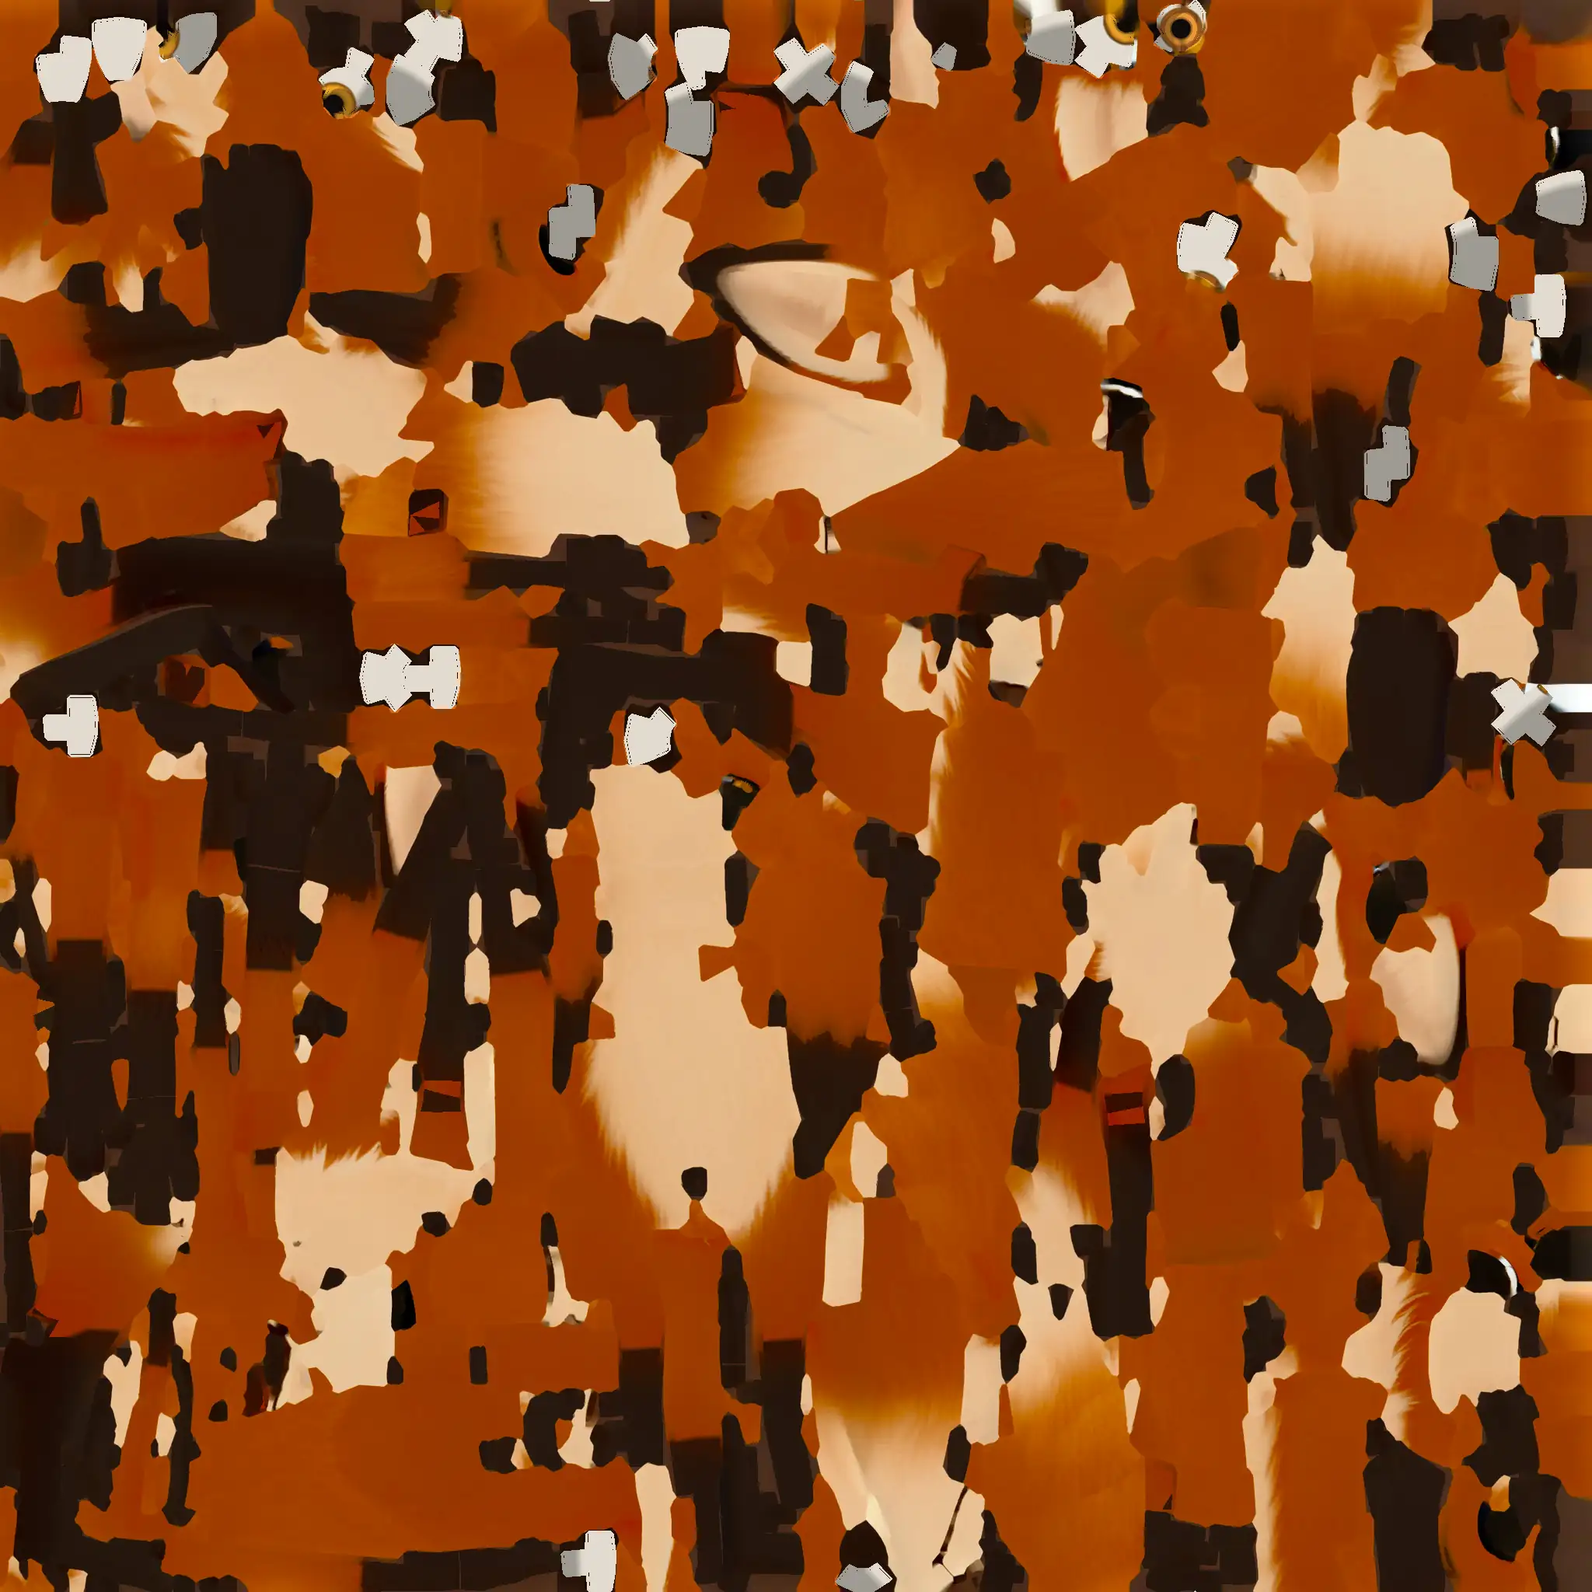
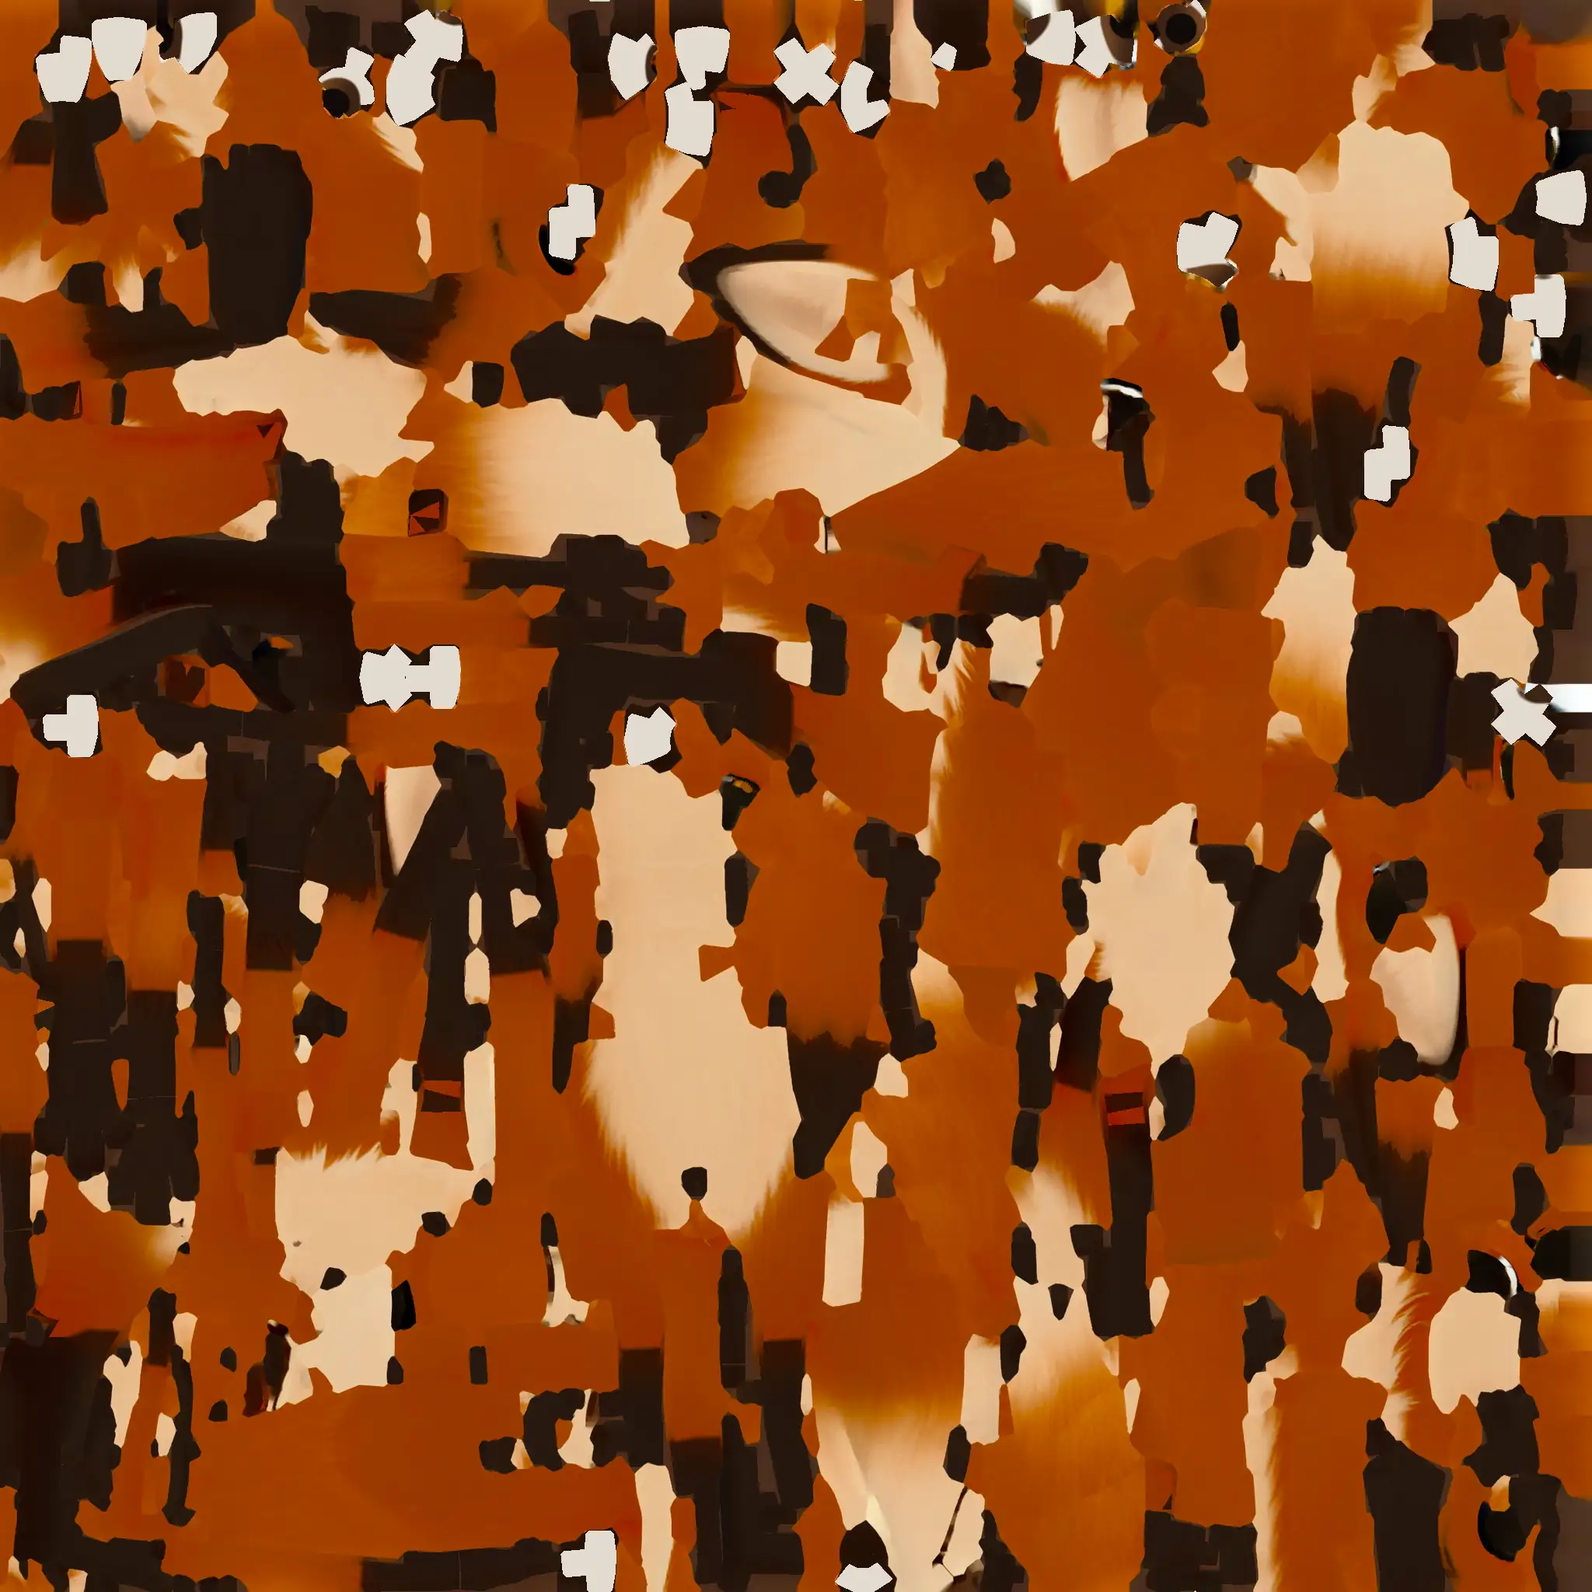
fix(models): cartoon eyes as on the sheet for the new Tripo fox
The half real eyes (a small pupil in an amber iris with white around
it) read uncanny on the toy-like face. paint_eyes() of fox-maps.py now
paints each eyeball as the eye of the sheet: a dark brown oval iris
that fills almost the whole opening (1.25 of half its height up and
down, 4 degrees past the inner corner, and to 7 degrees before the
outer corner), lighter brown toward its lower edge with no texture, a
black pupil of 0.65 of the iris radius, and a thin off-white edge only
at the outer corner. The gaze stays at half the angle of the opening
across, so the eyes are nearly parallel. The ball takes no painted
light, so the eye light of the app gives the one big soft light. The
gaps between ball triangles take the new colors, so no old color shows
on a seam. The red map and the tan map change with it.

diff --git a/tools/fox-maps.py b/tools/fox-maps.py
@@ -86,48 +86,40 @@ SPREAD = 0.06
 MIN_CHROMA = 0.02
 #: The texels of the eyeballs and this many texels around them keep their colors.
 EYE_MARGIN = 4
-#: The ball points of the front view with a luma below this value make the pupil.
-PUPIL_LUMA = 50
-#: The largest red over blue of a pupil texel: the dark brown that the map leaves on the rest of
-#: the ball has more.
-PUPIL_WARM = 15
 #: The share of the middle angle across of the eye opening that the gaze takes: 0 gives
-#: parallel eyes that look straight ahead, 1 an iris in the middle of each opening. The openings
-#: face about 11 degrees out, so the middle value keeps the eyes nearly parallel and the irises
-#: nearly in the middle.
+#: parallel eyes that look straight ahead, 1 an eye in the middle of each opening. The openings
+#: face about 11 degrees out, so the middle value keeps the eyes nearly parallel and in the
+#: middle.
 GAZE_ACROSS = 0.5
 #: The half width in degrees of the band across the opening about the gaze in which the height
 #: of the opening counts.
 GAZE_BAND = 8.0
-#: The angle in degrees of the gaze above the middle of the opening.
-GAZE_UP = 0.0
-#: The iris radius as a share of half the height of the eye opening of the front view.
-IRIS_FILL = 1.12
-#: The pupil radius as a share of the iris radius.
-PUPIL_SHARE = 0.45
-#: The width of the soft edge of the iris to the sclera, as a share of the iris radius.
+#: The vertical radius of the oval iris as a share of half the height of the eye opening: above 1,
+#: the lids cover its top and its bottom.
+IRIS_HEIGHT = 1.25
+#: The angle in degrees before the outer corner of the opening at which the iris ends, so that a
+#: thin off-white edge shows there.
+OUTER_WHITE = 7.0
+#: The angle in degrees by which the iris reaches past the inner corner of the opening, so that no
+#: white shows there.
+INNER_REACH = 4.0
+#: The pupil radius as a share of the vertical iris radius.
+PUPIL_SHARE = 0.65
+#: The width of the soft edge of the iris to the sclera, as a share of the iris radii.
 IRIS_SOFT = 0.06
-#: The rings of the radial profile of the iris, and the largest share by which the luma of a
-#: texel of the iris differs from its ring (`paint_eyes()`).
-IRIS_STEPS = 8
-IRIS_STREAK = 0.18
-#: The sRGB colors of the pupil and of the off-white sclera, and the darkest share of the shade of
-#: the sclera under the upper lid.
-PUPIL_COLOR = (14, 10, 9)
+#: The sRGB colors of the iris (dark, and lighter at its lower edge), of the pupil, and of the
+#: off-white sclera. The iris is near the dark brown of the eyes of the sheets.
+IRIS_DARK = (62, 36, 20)
+IRIS_LIGHT = (112, 68, 36)
+PUPIL_COLOR = (16, 10, 7)
 SCLERA = (226, 220, 208)
-SCLERA_SHADE = 0.3
 #: The largest share of the texels of an eyeball that can also lie in the other eyeball.
 EYE_OVERLAP = 0.01
-#: The angle in degrees from the pupil of the front view within which the pupil texels and the
-#: amber texels of the iris of a ball lie.
-IRIS_SEARCH = 40.0
 #: The rounds of the fill of the texels around the eyeball triangles before the turned ball samples
 #: the map, so that a sample at the edge of a texture island takes no color from outside it.
 EYE_FILL = 4
 #: The barycentric slack of a ray hit, so that a ray on the edge of two triangles hits one.
 EDGE = 1e-4
-#: The barycentric slack of a second try for a ray that hits no ball triangle.
-WIDE_EDGE = 0.05
 #: The step of the grid of the front rays over each eye, in units of the rig file.
 RAY_STEP = 0.0005
 #: The light spot over each eye of a source map that paints one: its middle from the middle of the
@@ -541,28 +533,6 @@ def eye_texels(rig, faces):
     return np.concatenate(ys), np.concatenate(xs), np.concatenate(places)
 
 
-def sample(image, points):
-    """Gives the bilinear colors of an image (float, H x W x 3) at texture points."""
-    x = np.clip(points[:, 0] * SIZE - 0.5, 0, SIZE - 1.001)
-    y = np.clip(points[:, 1] * SIZE - 0.5, 0, SIZE - 1.001)
-    x0, y0 = np.floor(x).astype(int), np.floor(y).astype(int)
-    fx, fy = (x - x0)[:, None], (y - y0)[:, None]
-    return ((1 - fx) * (1 - fy) * image[y0, x0] + fx * (1 - fy) * image[y0, x0 + 1]
-            + (1 - fx) * fy * image[y0 + 1, x0] + fx * fy * image[y0 + 1, x0 + 1])
-
-
-def turn_matrix(a, b):
-    """Gives the matrix of the shortest turn that takes the unit vector a to the unit vector b."""
-    axis = np.cross(a, b)
-    s = np.linalg.norm(axis)
-    if s < 1e-9:
-        return np.eye(3)
-    k = axis / s
-    K = np.array([[0, -k[2], k[1]], [k[2], 0, -k[0]], [-k[1], k[0], 0]])
-    angle = np.arctan2(s, a @ b)
-    return np.eye(3) + np.sin(angle) * K + (1 - np.cos(angle)) * K @ K
-
-
 def fill_around(image, inside):
     """Gives a copy of the image in which EYE_FILL rings of texels around the texels `inside` take
     the mean color of their neighbors inside, ring by ring."""
@@ -578,46 +548,6 @@ def fill_around(image, inside):
         out[ring] = total[ring] / count[ring, None]
         have |= ring
     return out
-
-
-def ball_colors(rig, faces, c, directions, src):
-    """Gives the source color of the ball at each direction from its middle c (a ray from c to the
-    ball triangles), and a mask of the directions that hit the ball."""
-    triangles, positions, points = rig[:3]
-    ball = positions[triangles[faces]]
-    _, k, bary = ray_hits(np.tile(c, (len(directions), 1)), directions, ball)
-    # A ray through a small crack between two ball triangles takes the nearer triangle.
-    miss = np.flatnonzero(k < 0)
-    _, k2, bary2 = ray_hits(np.tile(c, (len(miss), 1)), directions[miss], ball, WIDE_EDGE)
-    k[miss], bary[miss] = k2, bary2
-    found = k >= 0
-    tri = triangles[faces[k[found]]]
-    u, v = bary[found, 0], bary[found, 1]
-    uv = ((1 - u - v)[:, None] * points[tri[:, 0]] + u[:, None] * points[tri[:, 1]]
-          + v[:, None] * points[tri[:, 2]])
-    colors = np.zeros((len(directions), 3))
-    colors[found] = sample(src, uv)
-    return colors, found
-
-
-def classes(colors):
-    """Gives the masks of the black pupil (luma below PUPIL_LUMA, and red less than PUPIL_WARM over
-    blue), the amber iris, the white sclera, and the dark brown of the ball that the map leaves
-    unpainted, of a list of sRGB colors."""
-    luma = colors @ [0.2126, 0.7152, 0.0722]
-    warmth = colors[:, 0] - colors[:, 2]
-    top, low = colors.max(axis=1), colors.min(axis=1)
-    sat = (top - low) / np.maximum(top, 1)
-    red, green, blue = colors.T
-    amber = (sat > 0.5) & (top > 120) & (red >= green) & (green > blue)
-    white = (low > 170) & (sat < 0.25)
-    brown = (luma < PUPIL_LUMA) & (warmth >= PUPIL_WARM)
-    return (luma < PUPIL_LUMA) & (warmth < PUPIL_WARM), amber, white, brown
-
-
-def angle_to(a, b):
-    """Gives the angle in degrees between each unit vector of a and the unit vector b."""
-    return np.degrees(np.arccos(np.clip(a @ b, -1, 1)))
 
 
 def smooth(a, b, x):
@@ -655,45 +585,25 @@ def angles(d, t, u, e):
     return np.degrees(np.arcsin(np.clip(d @ u, -1, 1))), np.degrees(np.arctan2(d @ e, d @ t))
 
 
-def iris_profile(colors, d, p):
-    """Gives the angles in degrees from the pupil direction p of the source iris of a ball: the
-    edge of the black pupil (the first step of 1 degree with less than half pupil texels), and the
-    end of the iris (2 degrees before the first step after it with 15 % or more white texels among
-    the painted texels, and at least 6 degrees past the pupil edge)."""
-    pupil, _, white, brown = classes(colors)
-    a = angle_to(d, p)
-    steps = np.arange(int(IRIS_SEARCH))
-
-    def share(mask, k):
-        band = (a >= k) & (a < k + 1) & ~brown
-        return mask[band].mean() if band.any() else 0.0
-
-    pupil_share = np.array([share(pupil, k) for k in steps])
-    white_share = np.array([share(white, k) for k in steps])
-    edge = int(np.argmax(pupil_share < 0.5))
-    end = max(edge + 6, edge + int(np.argmax(white_share[edge:] >= 0.15)) - 2)
-    return float(edge), float(end)
-
-
 def paint_eyes(rig, image):
-    """Paints each eyeball as a calm, natural eye, and gives the new image. The source map paints
-    each iris at the inner edge of the white of its ball, with a pupil that fills most of the iris
-    and a dark ring around it, and the rest of the ball dark brown. In the app the eyes read as
-    glass doll eyes that look past the viewer. For each side (c, r, and the front axes t, u, e of
-    `ball_frame()`), from the ball points that show in the front view:
-    - The gaze g: GAZE_ACROSS of the middle angle across of the opening (lam of `angles()`), and
-      the middle elevation of the opening within GAZE_BAND degrees of that angle, GAZE_UP degrees
-      up, so that both eyes look at the viewer nearly parallel.
-    - The iris radius a: IRIS_FILL of half the height of the opening there, so that the iris
-      fills most of the opening and its top lies a little under the upper lid.
-    - A texel at the angle b from g and the turn phi about g: a pupil of PUPIL_SHARE of the iris
-      radius with a soft edge, the iris from there to a, and a soft edge of IRIS_SOFT of a to the
-      sclera. The iris takes the source color of the same ball at the same phi about the source
-      pupil, at the angle from the end of the source pupil to the end of its iris, by the share
-      across the new iris. A dark texel of it takes the dark amber. Then each texel takes the
-      median color of its ring of the iris, with its own streak of light or shade.
-    - The sclera: SCLERA, shaded by SCLERA_SHADE under the upper edge of the opening.
-    The ball takes no painted light: the eye light of the app gives one highlight in both eyes."""
+    """Paints each eyeball as the cartoon eye of the sheet, and gives the new image. The sheet gives
+    the fox and the rabbit large dark eyes with one big soft light. A half real eye (a small pupil
+    in an amber iris with white around it) read uncanny on the toy-like face. For each side (c, r,
+    and the front axes t, u, e of `ball_frame()`), from the ball points that show in the front
+    view, with psi the elevation and lam the angle across of `angles()`:
+    - The gaze g: GAZE_ACROSS of the middle angle across of the opening, and the middle
+      elevation of the opening within GAZE_BAND degrees of that angle, so that both eyes look at
+      the viewer nearly parallel.
+    - The iris: an oval about g in (lam, psi), IRIS_HEIGHT of half the height of the opening up
+      and down, to the inner corner of the opening, and to OUTER_WHITE degrees before its outer
+      corner. So the iris fills almost the whole opening, and only a thin off-white edge shows at
+      the outer corner. Its color goes from IRIS_DARK to IRIS_LIGHT toward its lower edge, with no
+      texture.
+    - The pupil: a round black disc about g of PUPIL_SHARE of the vertical iris radius, with a
+      soft edge.
+    - The sclera: SCLERA.
+    The ball takes no painted light: the eye light of the app gives the one big soft light in the
+    upper part of both eyes."""
     triangles, positions, points, eyes = rig[:4]
     out = np.asarray(image).astype(np.float64)
     taken = np.zeros((SIZE, SIZE), bool)
@@ -704,85 +614,50 @@ def paint_eyes(rig, image):
             sys.exit('The texels of the two eyeballs overlap, so no eye can take its own paint.')
         taken[ys, xs] = True
         texels[side] = (ys, xs, places)
-    src = fill_around(out, taken)
-    sclera = np.array(SCLERA, float)
-    for side in ('L', 'R'):
+    t, u, e = np.array([0.0, 0, 1]), np.array([0.0, 1, 0]), np.array([1.0, 0, 0])
+    dark, light = np.array(IRIS_DARK, float), np.array(IRIS_LIGHT, float)
+    for side, sign in (('L', 1.0), ('R', -1.0)):
         faces = np.array(eyes[side]['faces'])
         c, r, shown = ball_frame(rig, faces)
-        t, u, e = np.array([0.0, 0, 1]), np.array([0.0, 1, 0]), np.array([1.0, 0, 0])
         psi, lam = angles(shown, t, u, e)
         mid_lam = (lam.min() + lam.max()) / 2
-        # The height of the opening where the gaze crosses it.
-        band = np.abs(lam - GAZE_ACROSS * mid_lam) < GAZE_BAND
-        psi = psi[band]
-        mid_psi = (psi.min() + psi.max()) / 2
-        gp, gl = np.radians(mid_psi + GAZE_UP), np.radians(GAZE_ACROSS * mid_lam)
-        g = np.array([np.sin(gl) * np.cos(gp), np.sin(gp), np.cos(gl) * np.cos(gp)])
-        gu = u - (u @ g) * g
-        gu /= np.linalg.norm(gu)
-        ge = np.cross(gu, g)
-        a = IRIS_FILL * (psi.max() - psi.min()) / 2
+        g_lam = GAZE_ACROSS * mid_lam
+        band = np.abs(lam - g_lam) < GAZE_BAND
+        g_psi = (psi[band].min() + psi[band].max()) / 2
+        a_y = IRIS_HEIGHT * (psi[band].max() - psi[band].min()) / 2
+        # +lam is +x: the outer side of the left eye and the inner side of the right eye.
+        outer = (lam.max() - g_lam if sign > 0 else g_lam - lam.min()) - OUTER_WHITE
+        inner = (g_lam - lam.min() if sign > 0 else lam.max() - g_lam) + INNER_REACH
         ys, xs, places = texels[side]
         d = places - c
         d /= np.linalg.norm(d, axis=1)[:, None]
-        old = src[ys, xs]
-        # The source pupil: the mean of the black texels near the pupil of the front view, by a
-        # mean shift, as the dark lines around the painted eye are black too.
-        pupil, amber, _, _ = classes(old)
-        seen_colors, _ = ball_colors(rig, faces, c, shown, src)
-        p = shown[classes(seen_colors)[0]].mean(axis=0)
-        p /= np.linalg.norm(p)
-        for _ in range(8):
-            near = pupil & (angle_to(d, p) < 15)
-            p = d[near].mean(axis=0)
-            p /= np.linalg.norm(p)
-        edge, end = iris_profile(old, d, p)
-        pu = u - (u @ p) * p
-        pu /= np.linalg.norm(pu)
-        pe = np.cross(pu, p)
-        dark_amber = np.median(old[amber & (angle_to(d, p) < end)], axis=0) * 0.6
-        b = angle_to(d, g)
-        phi = np.arctan2(d @ gu, d @ ge)
-        share = np.clip((b / a - PUPIL_SHARE) / (1 - PUPIL_SHARE), 0, 1)
-        src_angle = np.radians(edge + 1 + share * (end - edge - 1))
-        look = (np.cos(src_angle)[:, None] * p + np.sin(src_angle)[:, None]
-                * (np.cos(phi)[:, None] * pe + np.sin(phi)[:, None] * pu))
-        iris, found = ball_colors(rig, faces, c, look, src)
-        luma = iris @ [0.2126, 0.7152, 0.0722]
-        iris[~found | (luma < 60)] = dark_amber
-        # The radial texture: the median color of each of IRIS_STEPS rings of the new iris, times
-        # the luma of each texel over the luma of its ring, held to 1 +- IRIS_STREAK. Thus the
-        # streaks of the source stay, and a dark smear or a seam of the source does not.
-        ring = np.minimum((share * IRIS_STEPS).astype(int), IRIS_STEPS - 1)
-        inner = b < a * (1 + IRIS_SOFT)
-        profile = np.array([np.median(iris[inner & (ring == k)], axis=0) if (inner & (ring == k)).any()
-                            else dark_amber for k in range(IRIS_STEPS)])
-        luma = iris @ [0.2126, 0.7152, 0.0722]
-        base = profile[ring]
-        ratio = np.clip(luma / np.maximum(base @ [0.2126, 0.7152, 0.0722], 1), 1 - IRIS_STREAK,
-                        1 + IRIS_STREAK)
-        iris = base * ratio[:, None]
-        pupil_w = 1 - smooth(PUPIL_SHARE - 0.05, PUPIL_SHARE + 0.03, b / a)
-        color = iris * (1 - pupil_w[:, None]) + np.array(PUPIL_COLOR, float) * pupil_w[:, None]
-        # A slightly darker rim of the iris, then a soft step to the sclera.
-        rim = smooth(1 - 2 * IRIS_SOFT, 1, b / a)
-        color = color * (1 - 0.25 * rim[:, None])
-        psi_d, _ = angles(d, t, u, e)
-        shade = 1 - SCLERA_SHADE * smooth(psi.max() - 14, psi.max(), psi_d)
-        white = sclera * shade[:, None]
-        to_white = smooth(1 - IRIS_SOFT, 1 + IRIS_SOFT, b / a)
-        color = color * (1 - to_white[:, None]) + white * to_white[:, None]
+        p_d, l_d = angles(d, t, u, e)
+        dl = (l_d - g_lam) * sign
+        dp = p_d - g_psi
+        a_x = np.where(dl > 0, outer, inner)
+        rho = np.hypot(dl / a_x, dp / a_y)
+        low = smooth(-0.2, 1.0, -dp / a_y)
+        iris = dark * (1 - low[:, None]) + light * low[:, None]
+        pupil = 1 - smooth(PUPIL_SHARE - 0.05, PUPIL_SHARE + 0.03, np.hypot(dl, dp) / a_y)
+        color = iris * (1 - pupil[:, None]) + np.array(PUPIL_COLOR, float) * pupil[:, None]
+        to_white = smooth(1 - IRIS_SOFT, 1 + IRIS_SOFT, rho)
+        color = color * (1 - to_white[:, None]) + np.array(SCLERA, float) * to_white[:, None]
         out[ys, xs] = color
-        print(f'eye {side}: opening elevation {psi.min():.1f} to {psi.max():.1f} at the gaze, across {lam.min():.1f} to '
-              f'{lam.max():.1f} degrees; gaze psi {mid_psi + GAZE_UP:.1f}, lam '
-              f'{GAZE_ACROSS * mid_lam:.1f}; iris radius {a:.1f} degrees; source pupil edge {edge:.0f}, '
-              f'amber end {end:.0f} degrees')
-    # The padding texels around the ball islands take the new colors of the ball next to them.
+        print(f'eye {side}: opening elevation {psi[band].min():.1f} to {psi[band].max():.1f} at the '
+              f'gaze, across {lam.min():.1f} to {lam.max():.1f} degrees; gaze psi {g_psi:.1f}, lam '
+              f'{g_lam:.1f}; iris radii {a_y:.1f} up, {inner:.1f} in, {outer:.1f} out; pupil radius '
+              f'{PUPIL_SHARE * a_y:.1f} degrees')
+    # The padding texels around the ball islands, and the texels of the thin gaps between two ball
+    # triangles that the raster of eye_texels() leaves, take the new colors of the ball next to
+    # them, so that no old color shows as a light line on a seam.
     mask = Image.new('L', (SIZE, SIZE), 0)
     draw = ImageDraw.Draw(mask)
     for tri in triangles:
         draw.polygon([(float(x) * SIZE, float(y) * SIZE) for x, y in points[tri]], fill=255)
-    padding = ~(np.asarray(mask) > 0) & ~taken
+    ball_faces = [f for side in ('L', 'R') for f in eyes[side]['faces']]
+    island = np.asarray(draw_triangles(triangles, points, ball_faces, SIZE)
+                        .filter(ImageFilter.MaxFilter(3))) > 0
+    padding = (~(np.asarray(mask) > 0) | island) & ~taken
     filled = fill_around(out, taken)
     out[padding] = filled[padding]
     return Image.fromarray(np.round(out).clip(0, 255).astype(np.uint8))
